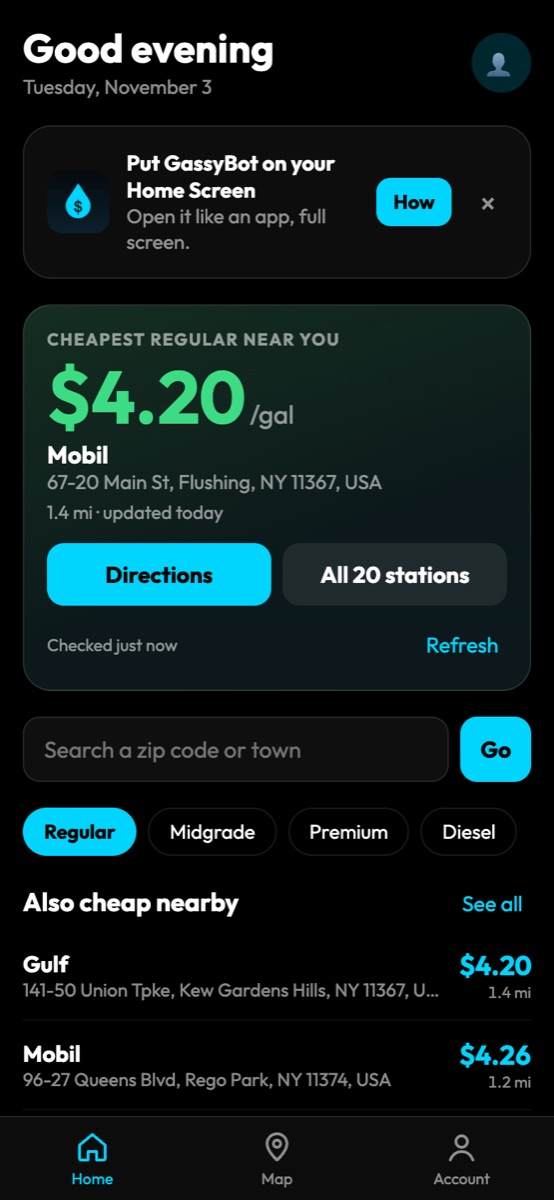
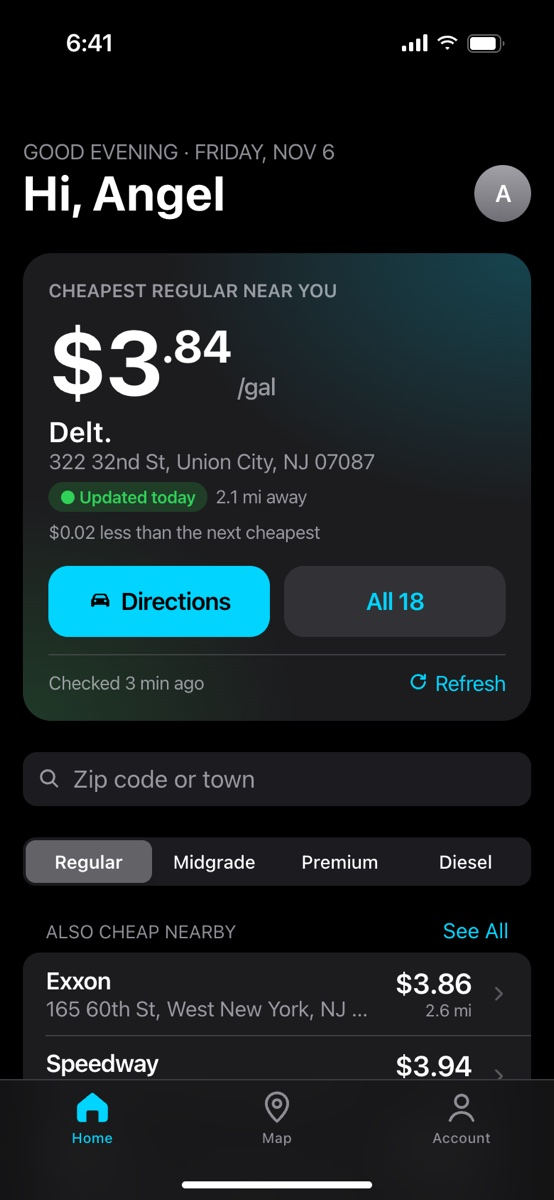
Update GassyBot with the new iOS-style screenshots and a live demo link

diff --git a/index.html b/index.html
@@ -70,8 +70,8 @@
       <!-- 1. GassyBot -->
       <article class="project">
         <div class="media phones">
-          <img src="assets/img/gb-home.jpg" alt="GassyBot home screen showing the cheapest regular gas nearby at $4.20" data-zoom>
-          <img src="assets/img/gb-map.jpg" alt="GassyBot map of nearby gas stations in Queens with a sorted price list" data-zoom>
+          <img src="assets/img/gb-home.jpg" alt="GassyBot home screen in an iOS style, showing the cheapest regular gas nearby at $3.84 with a Directions button" data-zoom>
+          <img src="assets/img/gb-map.jpg" alt="GassyBot map of New York gas stations above a list sorted by price, cheapest first" data-zoom>
         </div>
         <div class="body">
           <div class="title-row">
@@ -81,23 +81,25 @@
               <h3>GassyBot</h3>
             </div>
           </div>
-          <p class="tagline">Find the cheapest gas around you, from Discord or your phone's home screen.</p>
+          <p class="tagline">Find the cheapest gas around you, from an app on your phone's home screen.</p>
           <p>
-            Started as a Discord bot that posts state gas prices on a schedule, then grew into an installable
-            phone app. It finds your location, pulls real station prices from Google Places, and ranks the
-            20 closest stations by price for regular, midgrade, premium, or diesel.
+            Started as a Discord bot that posts gas prices, then grew into an installable phone app designed
+            to look and feel like a native iPhone app. It finds your location, pulls real station prices from
+            Google Places, and ranks nearby stations by price for regular, midgrade, premium, or diesel.
           </p>
           <ul class="did">
-            <li>Built a Flask API (<code>/api/nearby</code>, <code>/api/search</code>) on top of the Google Places API, with zip code and town search</li>
-            <li>Made it an installable <strong>PWA</strong> with a service worker, a manifest, and an interactive map</li>
-            <li>Added optional Firebase login so favorite stations sync across devices</li>
-            <li>Discord commands (<code>!gas</code>, <code>!setlocation</code>) with hourly updates and an EIA data fallback</li>
-            <li>Deployed 24/7 on <strong>Railway</strong></li>
+            <li>Built a Flask API (<code>/api/nearby</code>, <code>/api/search</code>) on top of the Google Places API, with caching and a daily request cap to keep API costs at zero</li>
+            <li>Designed the interface after Apple's iOS guidelines: large titles, grouped lists, a segmented fuel picker, and a translucent tab bar</li>
+            <li>Made it an installable <strong>PWA</strong>: a service worker opens it instantly and shows your last prices even offline</li>
+            <li>Interactive Leaflet map, saved stations, and optional Firebase login for syncing across devices</li>
+            <li>Deployed on <strong>Render</strong> with automatic deploys from GitHub</li>
           </ul>
-          <ul class="chips"><li>Python</li><li>Flask</li><li>discord.py</li><li>Google Places API</li><li>Firebase</li><li>PWA</li><li>Railway</li></ul>
+          <ul class="chips"><li>Python</li><li>Flask</li><li>JavaScript</li><li>Google Places API</li><li>Leaflet</li><li>PWA</li><li>Firebase</li><li>discord.py</li></ul>
           <div class="links">
+            <a href="https://gassybot.onrender.com" target="_blank" rel="noopener">Try it live →</a>
             <a href="https://github.com/Angel-F4204/GassyBot" target="_blank" rel="noopener">View code →</a>
           </div>
+          <p class="note">Runs on a free server, so the first visit after a while can take up to a minute to wake up.</p>
         </div>
       </article>
 
@@ -249,7 +251,7 @@ large   <b>500</b> · <b>8,160</b> → <i>434</i>  <u>1.6 ms</u>
           <div class="skill-group"><span>Languages</span><ul class="chips"><li>JavaScript</li><li>TypeScript</li><li>Python</li><li>Java</li><li>C++</li><li>C</li><li>HTML / CSS</li><li>SQL</li></ul></div>
           <div class="skill-group"><span>Frontend</span><ul class="chips"><li>React</li><li>React Router</li><li>TanStack Query</li><li>Zustand</li><li>Tailwind CSS</li><li>Vite</li></ul></div>
           <div class="skill-group"><span>Backend &amp; Data</span><ul class="chips"><li>Node.js</li><li>Express</li><li>Flask</li><li>Supabase</li><li>Firebase</li><li>MySQL</li><li>Drizzle ORM</li></ul></div>
-          <div class="skill-group"><span>Tools</span><ul class="chips"><li>Git / GitHub</li><li>Figma</li><li>Railway</li><li>REST APIs</li><li>Agile</li></ul></div>
+          <div class="skill-group"><span>Tools</span><ul class="chips"><li>Git / GitHub</li><li>Figma</li><li>Render</li><li>REST APIs</li><li>Agile</li></ul></div>
         </div>
       </div>
     </section>

diff --git a/styles.css b/styles.css
@@ -117,6 +117,7 @@ h1, h2, h3 { font-family: var(--display); line-height: 1.15; margin: 0; letter-s
 .chips li { font-size: 13px; font-weight: 500; padding: 4px 10px; border-radius: 999px; background: var(--accent-soft); color: var(--text); }
 .links { margin-top: 20px; }
 .links a { font-weight: 600; text-decoration: none; }
+.links a + a { margin-left: 22px; }
 .links a:hover { text-decoration: underline; }
 .note { font-size: 14px; color: var(--muted); margin-top: 16px !important; font-style: italic; }
 
